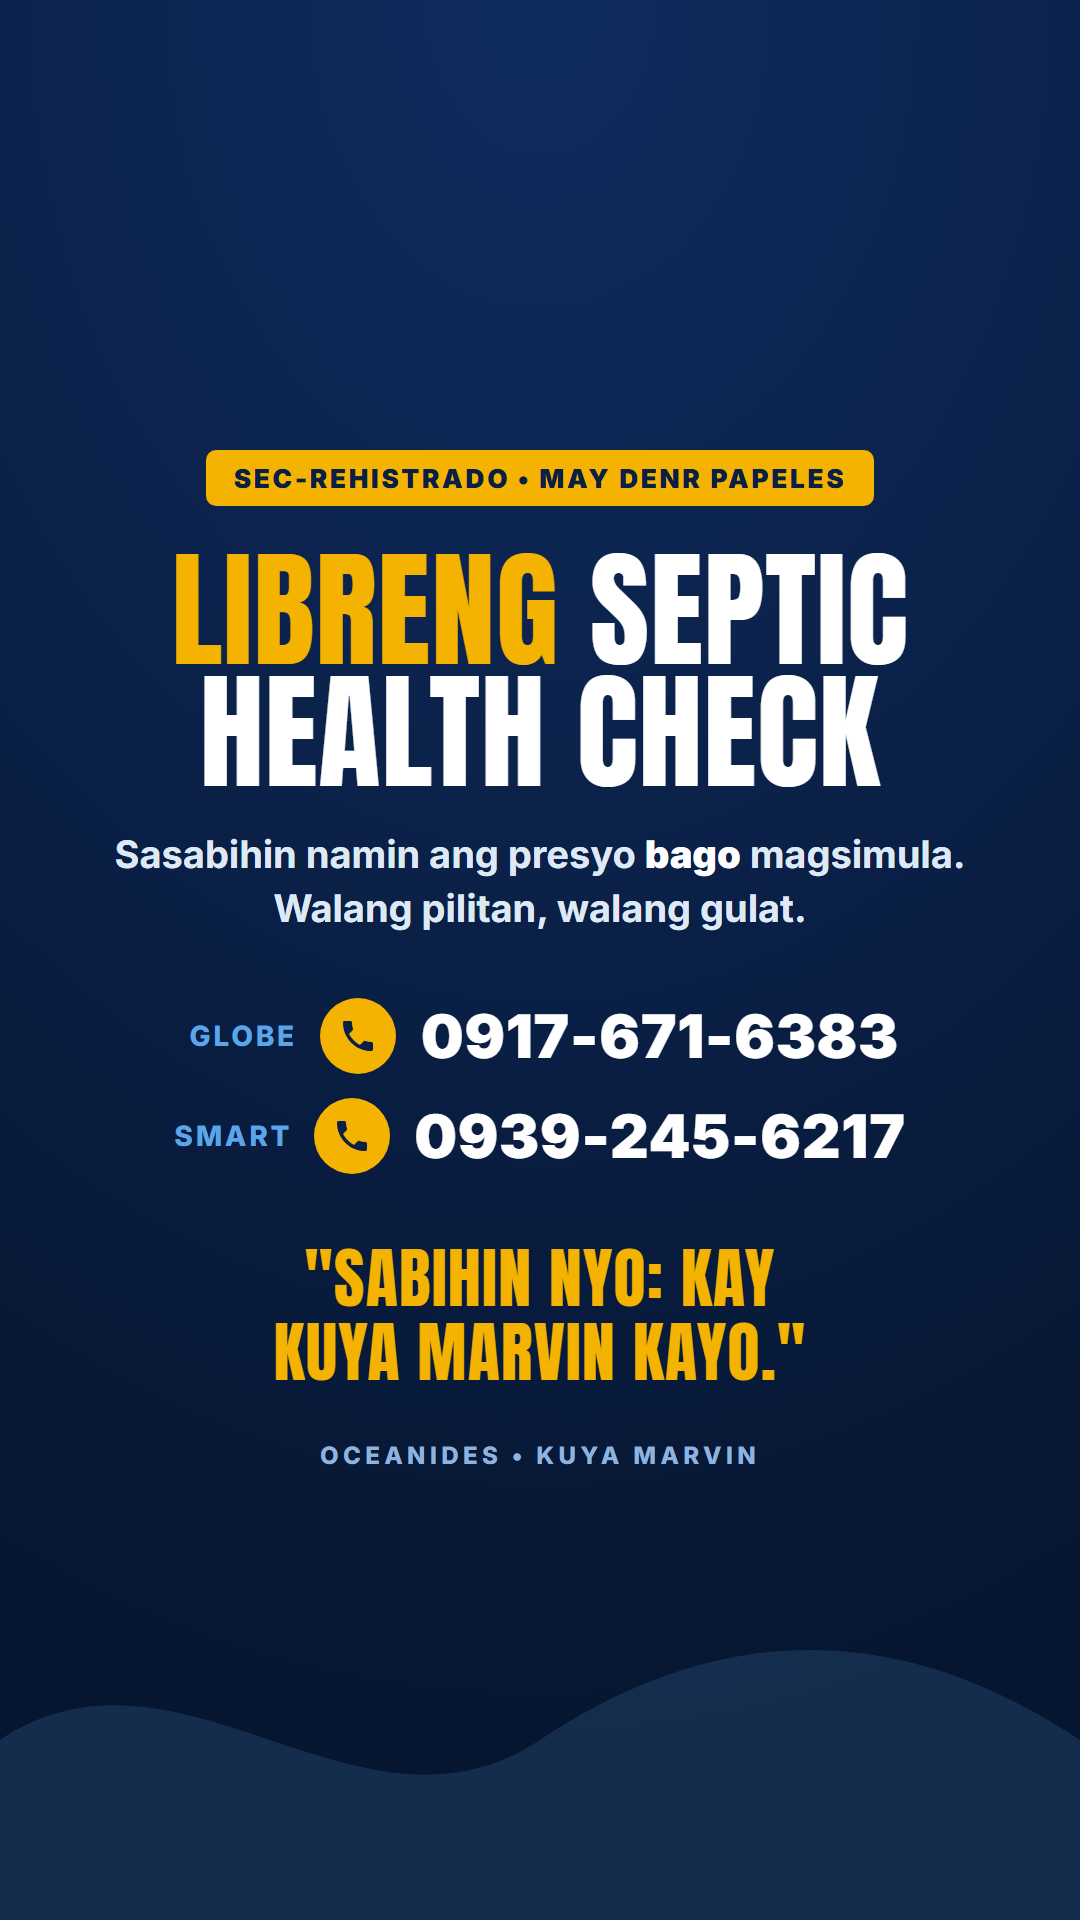
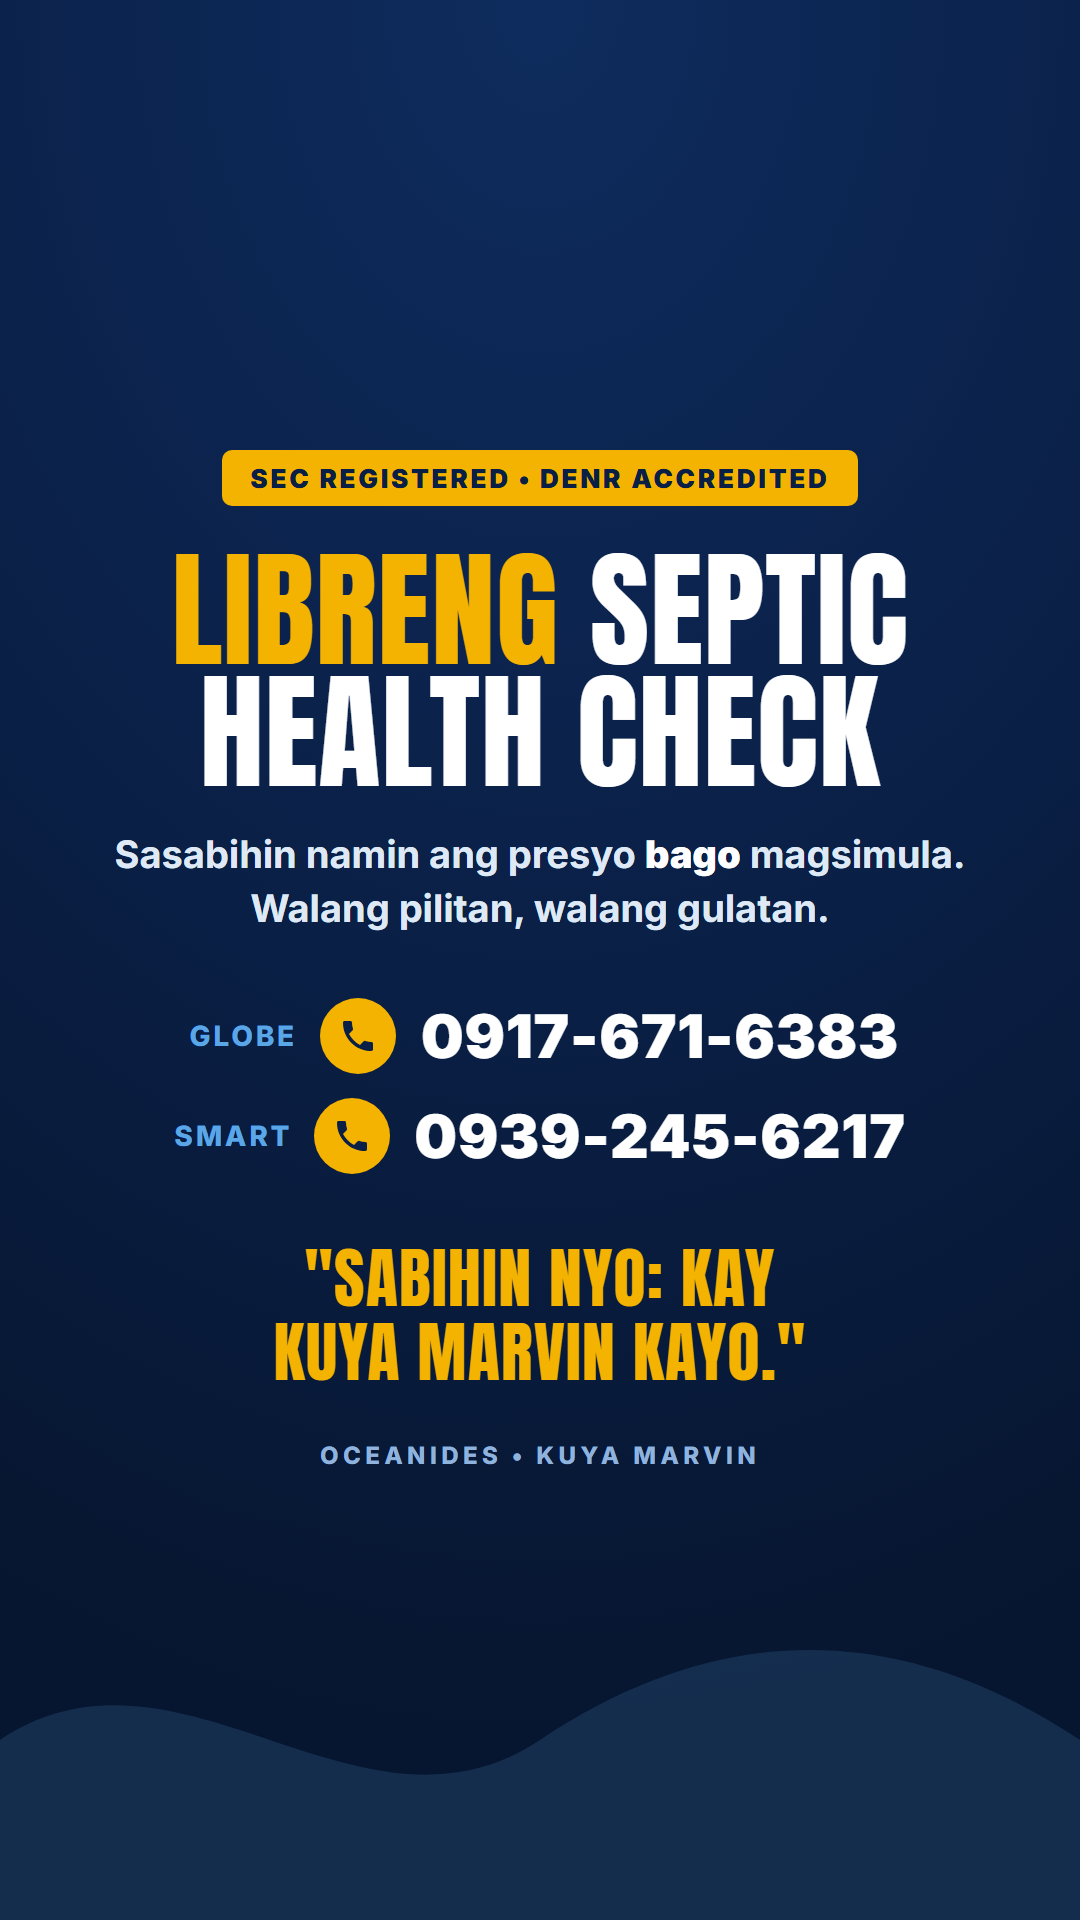
fix(kuya-marvin): end card copy per Neil (walang gulatan; SEC Registered / DENR Accredited) + copy-lane directive (Sol writes, Claude briefs/QAs)

diff --git a/clients/oceanides/templates/kuya-marvin-endcard.html b/clients/oceanides/templates/kuya-marvin-endcard.html
@@ -30,9 +30,9 @@ h1 b{color:var(--gold);font-weight:400}
 <div id="canvas">
   <svg class="wave" viewBox="0 0 540 180" preserveAspectRatio="none"><path d="M0 90 C 90 30, 180 150, 270 90 S 450 30, 540 90 L 540 180 L 0 180 Z" fill="#5AA6E6"/></svg>
   <div class="block">
-    <span class="eyebrow">SEC-Rehistrado &bull; May DENR Papeles</span>
+    <span class="eyebrow">SEC Registered &bull; DENR Accredited</span>
     <h1><b>Libreng</b> Septic<br/>Health Check</h1>
-    <div class="sub">Sasabihin namin ang presyo <b>bago</b> magsimula.<br/>Walang pilitan, walang gulat.</div>
+    <div class="sub">Sasabihin namin ang presyo <b>bago</b> magsimula.<br/>Walang pilitan, walang gulatan.</div>
     <div class="nums">
       <div class="num"><span class="lbl">Globe</span><span class="ph"><svg viewBox="0 0 24 24"><path d="M6.6 10.8c1.4 2.7 3.9 5.2 6.6 6.6l2.2-2.2c.3-.3.7-.4 1-.2 1.2.4 2.4.6 3.6.6.6 0 1 .4 1 1V20c0 .6-.4 1-1 1C10.6 21 3 13.4 3 4c0-.6.4-1 1-1h3.4c.6 0 1 .4 1 1 0 1.2.2 2.4.6 3.6.1.3 0 .7-.2 1l-2.2 2.2z"/></svg></span><span class="no">0917-671-6383</span></div>
       <div class="num"><span class="lbl">Smart</span><span class="ph"><svg viewBox="0 0 24 24"><path d="M6.6 10.8c1.4 2.7 3.9 5.2 6.6 6.6l2.2-2.2c.3-.3.7-.4 1-.2 1.2.4 2.4.6 3.6.6.6 0 1 .4 1 1V20c0 .6-.4 1-1 1C10.6 21 3 13.4 3 4c0-.6.4-1 1-1h3.4c.6 0 1 .4 1 1 0 1.2.2 2.4.6 3.6.1.3 0 .7-.2 1l-2.2 2.2z"/></svg></span><span class="no">0939-245-6217</span></div>

diff --git a/agent_lessons.md b/agent_lessons.md
@@ -1048,3 +1048,9 @@ Regular hyphen sa reduplication (`che-check`, `i-check`) ay hindi kasama, tama y
 **What happened:** Sa KM-002 pilot ad ni Kuya Marvin, ginawa ang shot plan mula sa organic script pool + SOP memory lang — hindi binasa ang tuned adscript/storyboard rules sa `api/_lib/prompts.ts`. Nahuli ni Neil ("Pa-verify nga ako ulit, wala akong tiwala"): lumabag ang plan sa hook word count (5-8 words), body line count (7-12 words / 3-5s Slide pacing), pattern-interrupt hook, work-beat structure, at ONE-OPERATOR-ONE-JOBSITE consistency. Ang plates ay tatlong magkaibang lugar.
 
 **Rule:** Kapag PAID AD / ad creative ang ginagawa — kahit agency lane, kahit hindi dadaan sa app — ang crown-jewel formula sa `api/_lib/prompts.ts` (adscript structures, COMMON_RULES word counts, TAGLISH ACCENT LOCK, storyboard PACING/APPEARANCE_LOCK/one-jobsite) ang production grammar. Ang `script-pool.json` ay para sa Lane A ORGANIC lang (30-60s education). Bago mag-present ng production plan, i-verify ang bawat structural claim LABAN SA TUNED FILES, hindi sa memorya. Ang formula ay nasa repo mismo — walang dahilan hulaan.
+
+## 2026-07-22 — Copywriting lane: si GPT 5.6 Sol ang WRITER ng Tagalog/Taglish copy; si Claude ang brief + QA
+
+**Feedback ni Neil (KM-002 end card):** ang Tagalog copy ni Claude ay may "bulol" na tendency (hal. "walang gulat" imbes na "walang gulatan"; "SEC-Rehistrado / May DENR Papeles" imbes na natural na "SEC Registered / DENR Accredited" — ang credentials ay ENGLISH sa natural na Taglish register). Si Gemini at si ChatGPT/Sol ay mas natural ang tenga sa Filipino copy.
+
+**Standing directive:** sa lahat ng user-facing Tagalog/Taglish copy (scripts, end cards, captions, ad text) ng Grifon clients — **si GPT 5.6 Sol (ChatGPT lane) o Gemini ang unang draft ng copy.** Si Claude ang (1) nagbi-brief (structure, tuned-formula constraints, word counts, accent lock, typography rules, never-Malabanan), (2) nag-QA ng draft laban sa mga rule na yon, at (3) nag-a-assemble sa production. Builder ≠ reviewer — kapag si Claude ang napilitang sumulat (walang Sol access), i-flag kay Neil para sa native-ear pass bago i-publish. Kapareho ito ng Marvin stills history (Sol taste standard → Claude QA) — parehong division of labor, pero sa COPY ang una namang bumagsak kay Claude.
